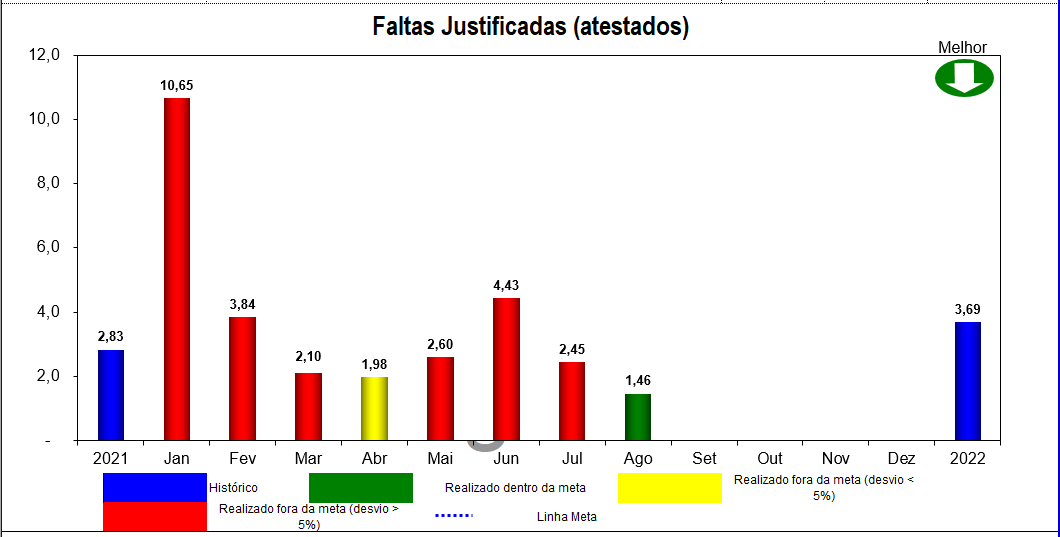
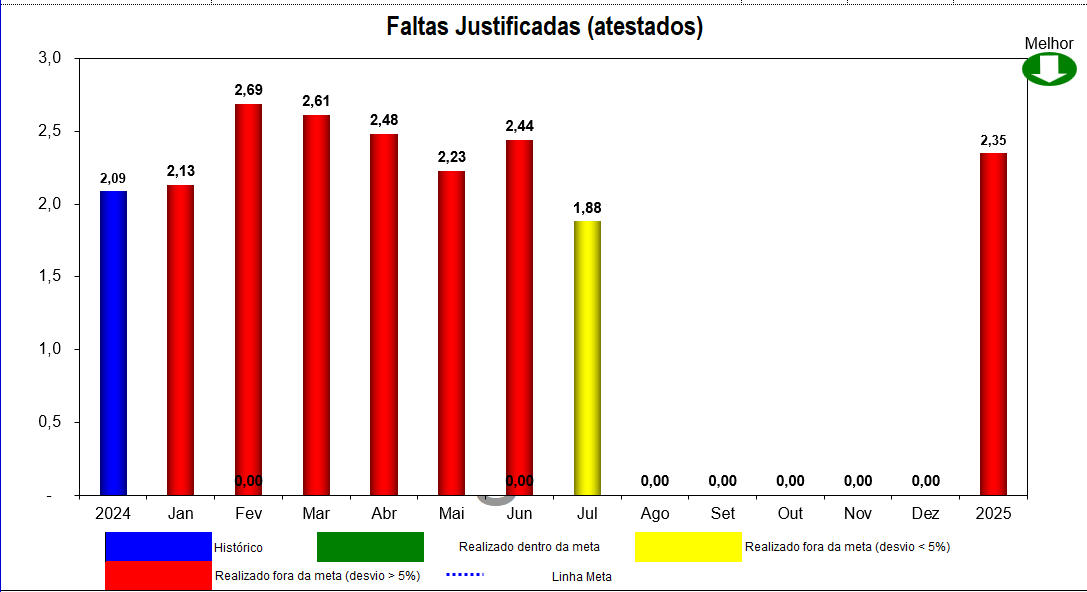
Atualização indicador
Atualização indicador de faltas

diff --git a/indic/faltas-justificadas.html b/indic/faltas-justificadas.html
@@ -35,7 +35,7 @@
           <div class="row mark">
             <div class="col status centro">
               <p class="font-weight-bold">Status Mensal</p>
-              <img src="../imagens/indicadores-insatisfatorio.png" />
+              <img src="../imagens/indicadores-satisfatorio.png" />
             </div>
             <div class="col mb-4">
               <h4 class="mt-4" style="text-align: center">
@@ -86,8 +86,8 @@
             </li>
           </ul>
           <div class="grafico">
-            <img src="../imagens/grafico-faltas-justificadas33 (1).PNG" />
-            <img src="../imagens/sub-grafico-faltas-justificadas33 (1).PNG" />
+            <img src="../imagens/grafico-faltas-justificadas.PNG" />
+            <img src="../imagens/sub-grafico-faltas-justificadas.PNG" />
           </div>
           <h3 class="centro legenda_titulo">Legenda do Status</h3>
           <div class="container">

diff --git a/indic/compensacao-horas.html b/indic/compensacao-horas.html
@@ -87,8 +87,8 @@
             </li>
           </ul>
           <div class="grafico">
-            <img src="../imagens/grafico-compensacao-horas33 (1).PNG" />
-            <img src="../imagens/sub-grafico-compensacao-horas33 (1).PNG" />
+            <img src="../imagens/grafico-compensacao-horas.PNG" />
+            <img src="../imagens/sub-grafico-compensacao-horas.PNG" />
           </div>
           <h3 class="centro legenda_titulo">Legenda do Status</h3>
           <div class="container">
